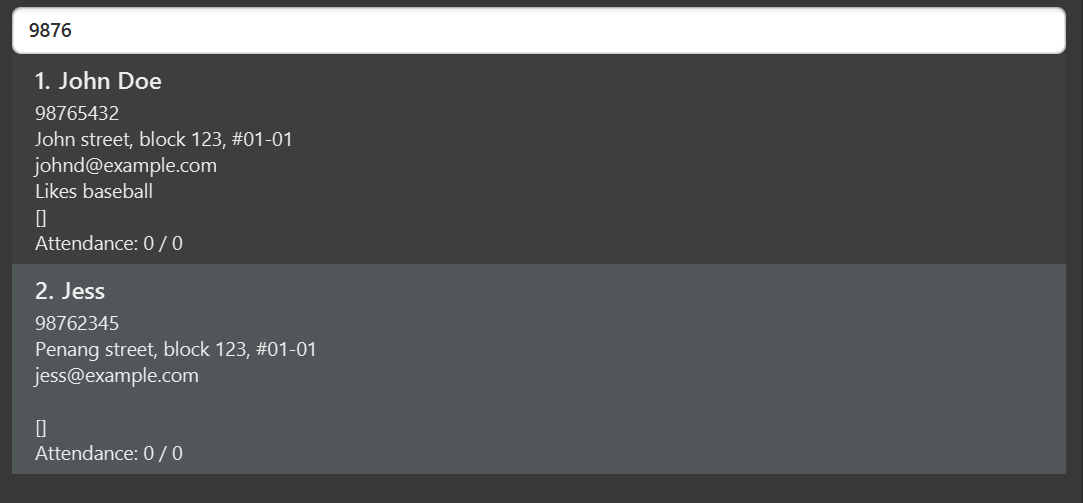
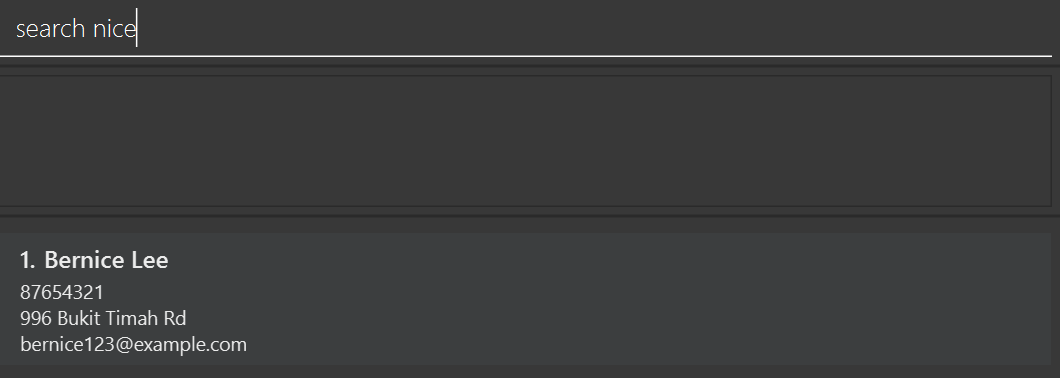
Update UG for SearchCommand

diff --git a/docs/UserGuide.md b/docs/UserGuide.md
@@ -74,24 +74,6 @@ Format: `help`
 ![help message](images/helpMessage.png)
 <p align="center"><em>Figure: Help message.</em></p>
 
-### Quick Search Bar 
-
-Allows users to instantly search for contacts as they type without needing to enter any commands. 
-
-<div markdown="span" class="alert alert-primary"> :bulb: **Tip** 
-You can still use the `find` command for more specific or multi-keyword searches. 
-The Quick Search Bar is ideal for quick lookups during lessons or when managing attendance. 
-</div>
-
-Examples: 
-* Typing `alex` will display contacts such as `Alex Yeoh`
-* Typing `9876` will display contacts with phone number such as 9876123
-* Typing `john12` will display contacts with email `john123@yahoo.com`
-
-![quick search bar](images/quicksearch.png)
-<p align="center"><em>Figure: The Quick Search Bar in the top-right corner of the main window.</em></p>
-
-
 ### Adding a person: `add`
 
 Adds a person to the address book.
@@ -258,6 +240,24 @@ Examples:
 
 ![Result of filtering students](images/filterUI.png)
 <p align="center"><em>Figure: Result of filtering students by subject and age.</em></p>
+
+### Quick Search : `search`
+
+Allows users to instantly search for contacts by name, email or phone number.
+
+<div markdown="span" class="alert alert-primary"> :bulb: **Tip** 
+You can still use the `find` command for more specific or multi-keyword searches. 
+The Quick Search feature is ideal for quick lookups during lessons or when managing attendance. 
+</div>
+
+Examples:
+* Typing `search alex` will display contacts such as `Alex Yeoh`
+* Typing `search 9876` will display contacts with phone number such as 9876123
+* Typing `search john12` will display contacts with email `john123@yahoo.com`
+
+![quick search](images/quicksearch.png)
+<p align="center"><em>Figure: Result of searching a student's name.</em></p>
+
 
 ### Recording student grades : `grade`
 
